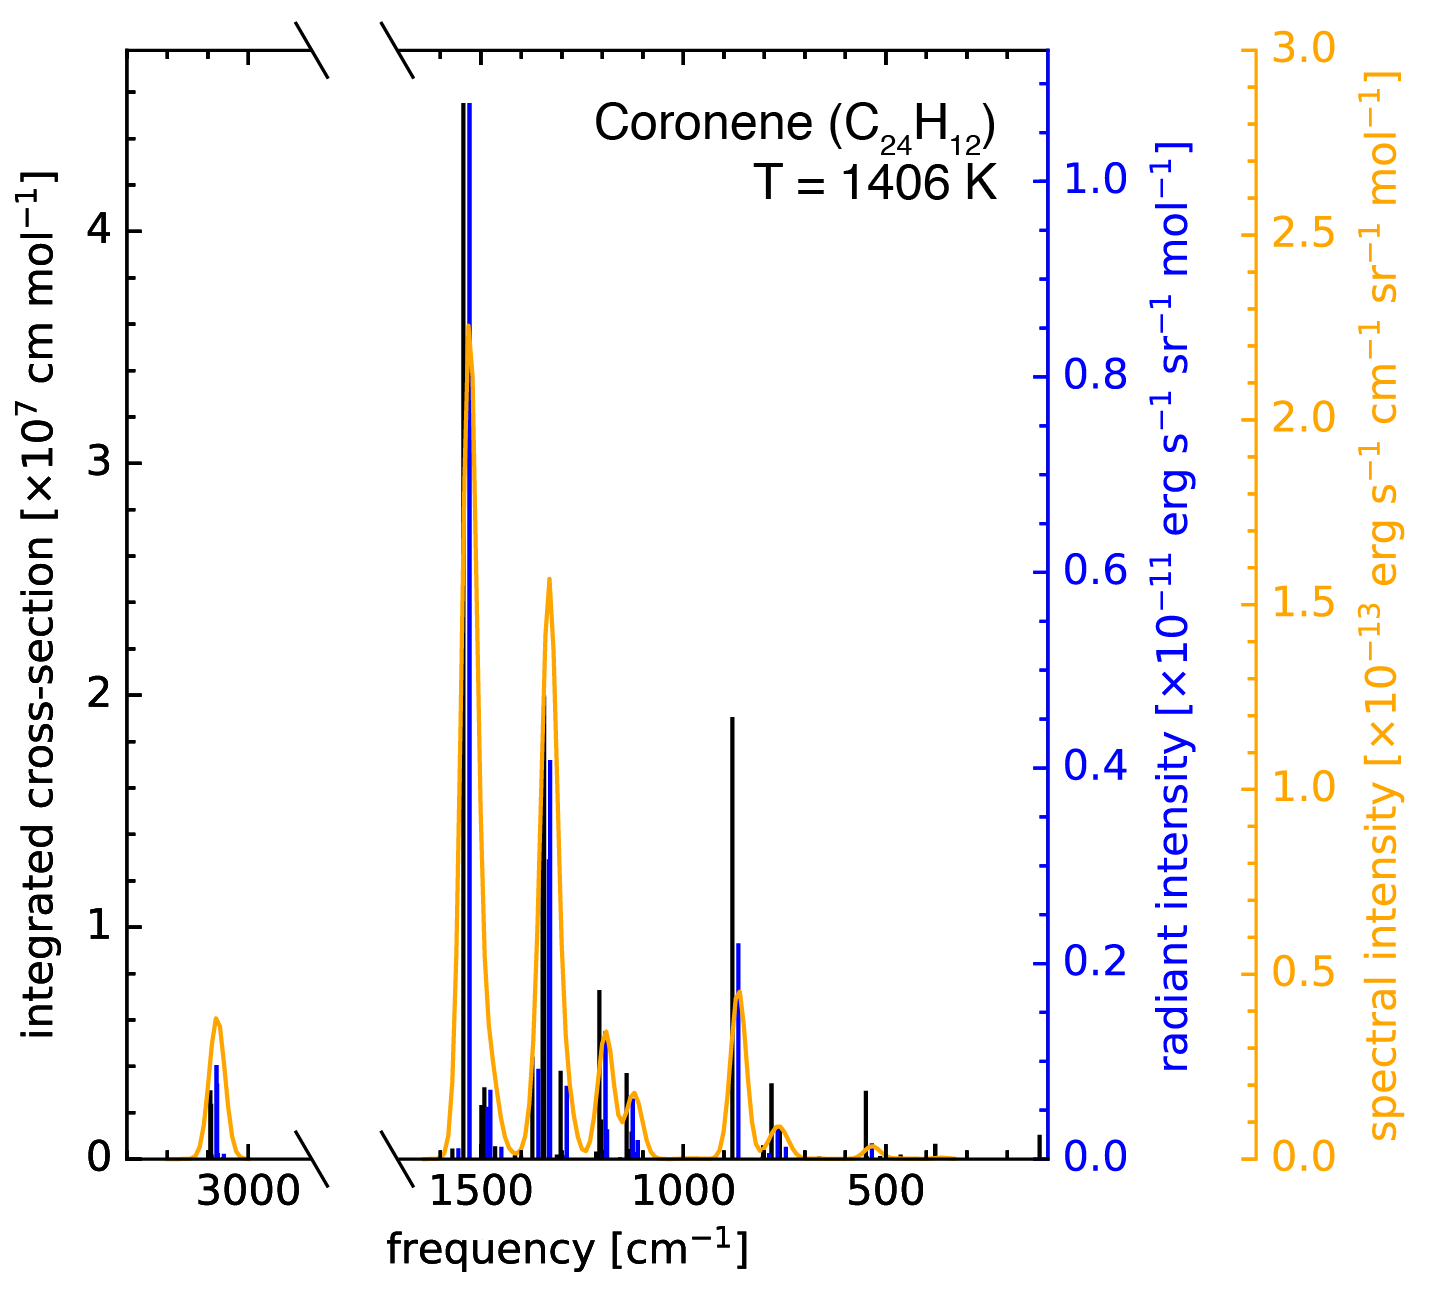
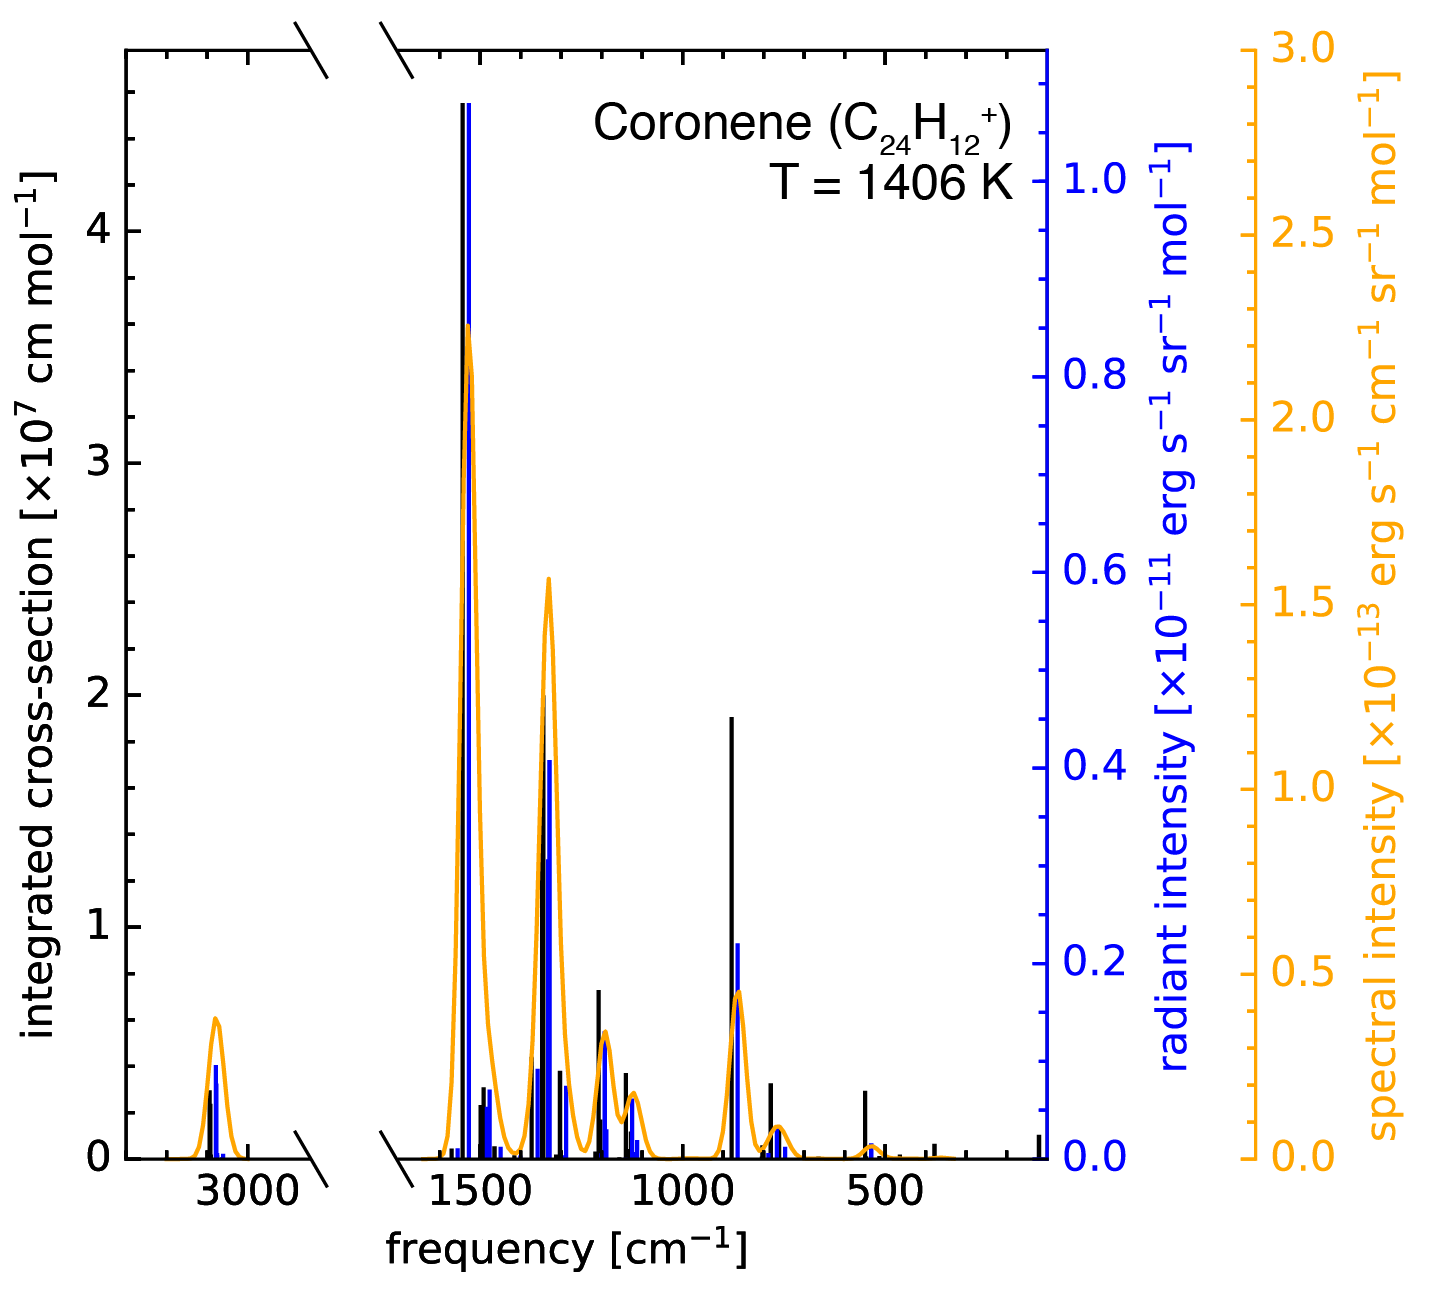
Adjusted label for model.png. Added code-block from example.py. Added output from pyPAHdb as two images. Minor textual fixes and updates.

diff --git a/papers/matthew_shannon/mshannon.rst b/papers/matthew_shannon/mshannon.rst
@@ -67,7 +67,8 @@ collection of data on PAHs, namely the NASA Ames PAH IR Spectroscopic
 Database (PAHdb). It is highly cited and is used to characterize and
 understand organic molecules in our own galaxy and external
 galaxies. Thus far, PAHdb’s full set of analytical tools has only been
-available as a suite to be used with the IDL[#]_ programming language.
+available as a suite to be used with the IDL\ [#]_ programming
+language.
 
 .. [#] IDL is a registered trademark of `Harris Geospatial
        <http://www.harrisgeospatial.com/ProductsandSolutions/GeospatialProducts/IDL.aspx>`_.
@@ -156,13 +157,13 @@ of the circumstellar disks from which new stars and planets form. For
 example, since PAH IR emission is pumped by UV light from the forming
 star, the extent of PAH emission from the disk can discriminate
 between flaring and non-flaring protoplanetary disk geometries
-:cite:`2001A&A...365..476M`; :cite:`2009A&A...502..175B`. However, the
+:cite:`2001A&A...365..476M` :cite:`2009A&A...502..175B`. However, the
 treasure trove of information of local conditions and an object's
 evolutionary history is only accessible through detailed spectroscopic
 analysis. A full spectroscopic analysis of these observations and an
 understanding of the factors that drive the spectroscopic changes is
 only now possible with the NASA Ames PAH IR Spectroscopic Database
-(PAHdb) :cite:`2018ApJS..234...32B`;
+(PAHdb) :cite:`2018ApJS..234...32B`
 :cite:`2014ApJSS..211....8B`. PAHdb is a NASA database containing
 thousands of spectra coupled to a set of innovative astronomical
 models and tools that enables astronomers to probe and quantitatively
@@ -174,7 +175,7 @@ radiation field, etc. :cite:`2016ApJ...832...51B`.
 The James Webb Space Telescope (*JWST*)
 ---------------------------------------
 
-The James Webb Space Telescope (JWST; `www.jwst.nasa.gov
+The James Webb Space Telescope (*JWST*; `www.jwst.nasa.gov
 <https://www.jwst.nasa.gov>`_) is NASA's next flagship observatory and
 is the successor to the succesful Hubble Space Telescope
 (`www.nasa.gov/hubble <https://www.nasa.gov/hubble>`_) and Spitzer
@@ -186,7 +187,7 @@ with a diameter of 6.5 m made up from 18 individual hexagonal segments
 and carriers four science instruments. These instruments will observe
 the Universe with unprecedented resolution and sensitivity from 0.6 to
 27 µm. The observatory is expected to launch in 2020. A 3D rendering
-of the spacecraft is shown in Fig. :ref:`fig:JWST`.
+of the spacecraft is shown in Figure :ref:`fig:JWST`.
 
 .. figure:: JWST.png
    :align: center
@@ -218,18 +219,18 @@ currently contain the spectra of 75 and 3139 PAH species,
 respectively, and are continuously expanded. At
 `www.astrochemistry.org/pahdb/
 <http://www.astrochemistry.org/pahdb/>`_ these libraries can be
-perused and/or downloaded. Fig. :ref:`fig:PAHdb` presents a screenshot
-of the website's landing page. Dowloads are offered formatted as ASCII
-or XML. In addition, several software tools are provided that allow
-users to interact with a downloaded database XML-file and perform the
-necessary steps to analyze astronomical data. Historically, the
-astronomical community has embraced the IDL[#]_ programming
-language. As such, the software tools have been developed
-in IDL. However, Python is seeing increasingly widespread usage among
-astronomers, in part due to its non-proprietary nature. Python has
-significantly matured over the last two decades and many astronomical
-utilities once only available through IDL and/or IRAF have been ported
-to Python (e.g., PyFITS; `www.astropy.org
+perused and/or downloaded. Figure :ref:`fig:PAHdb` presents a
+screenshot of the website's landing page. Dowloads are offered
+formatted as ASCII or XML. In addition, several software tools are
+provided that allow users to interact with a downloaded database
+XML-file and perform the necessary steps to analyze astronomical
+data. Historically, the astronomical community has embraced the IDL\
+[#]_ programming language. As such, the software tools have been
+developed in IDL. However, Python is seeing increasingly widespread
+usage among astronomers, in part due to its non-proprietary
+nature. Python has significantly matured over the last two decades and
+many astronomical utilities once only available through IDL and/or
+IRAF have been ported to Python (e.g., PyFITS; `www.astropy.org
 <http://www.astropy.org>`_). Notably, many of the astronomical
 utilities offered by the Space Telescope Science Institute, including
 the Data Analysis Toolbox for use with *JWST*, are being developed in
@@ -244,24 +245,26 @@ The software: pyPAHdb
 =====================
 
 pyPAHdb is being developed as part of the awarded James Webb Space
-Telescope (JWST) Early Release Science (ERS) program "Radiative
-Feedback from Massive Stars as Traced by Multiband Imaging and
-Spectroscopic Mosaics" (`program website <http://jwst-ism.org/>`_; ID:
-1288). The entire program is coordinated by an international "Core
-team" of 19 scientists and supported by 119 "science
-collaborators". The purpose of pyPAHdb is to derive astronomical
-parameters directly from the *JWST* observations.
-
-pyPAHdb should be considered a Lite version of the full suite of
-Python analyzes tools that is the analog of the *AmesPAHdbIDLSuite*.
-
-pyPAHdb uses a precomputed matrix of theoretically calculated PAH
-emission spectra from version 3.00 of the library of computed
-spectra. This matrix has been constructed from a collection of
-"astronomical" PAHs, which meet the following critera and include the
-fullerenes C60 and C70:
-
-* 'magnesium=0 oxygen=0 iron=0 silicium=0 chx=0 ch2=0 c>20 hydrogen>0'
+Telescope (*JWST*) Early Release Science (ERS) program titled
+"Radiative Feedback from Massive Stars as Traced by Multiband Imaging
+and Spectroscopic Mosaics" (`program website <http://jwst-ism.org/>`_;
+ID: 1288). The purpose of the ERS is to educate and inform the
+astronimical community of *JWST*'s capabilities, and provide rapid
+access to data and software tools that will enable full scientific
+exploitation in Cycle 2 and beyond. More information about the ERS
+program can be found at the `JDox
+<https://jwst-docs.stsci.edu/display/JSP/JWST+DD+ERS+Program+Goals%2C+Project+Updates%2C+and+Status+Reviews>`_. The
+program is coordinated by an international "core team" of 19
+scientists and supported by 119 "science collaborators". The purpose
+of pyPAHdb is to derive astronomical parameters directly from *JWST*
+observations, but is not limited to *JWST* observations alone. pyPAHdb
+is the Lite version of the full suite of Python software tools, dubbed
+the *AmesPAHdbPythonSuite* (`github.com/PAHdb/AmesPAHdbPythonSuite
+<https://github.com/PAHdb/AmesPAHdbPythonSuite>`_), that is being the
+analog of the *AmesPAHdbIDLSuite* (`github.com/PAHdb/AmesPAHdbIDLSuite
+<https://github.com/PAHdb/AmesPAHdbIDLSuite>`_). pyPAHdb should enable
+PAH experts and non-experts alike to analyze and interpret
+astronomical PAH emission spectra.
 
 PAH Emission Model
 ------------------
@@ -347,17 +350,46 @@ eV photon.
    spectrum is shown in orange. For display purposes the profiles have
    been given a FWHM of 45 cm\ :sup:`-1`. :label:`fig:model`
 
-Philosophy
-----------
-
-Its utility vs. the full suite, why it exists -- simplicity for
-non-experts. etc.
+pyPAHdb uses a precomputed matrix of theoretically calculated,
+highly-over-sampled, PAH emission spectra from version 3.00 of the
+library of computed spectra. This matrix has been constructed from a
+collection of "astronomical" PAHs, which include those PAHs that have
+more than 20 carbon atoms, have no hetero-atom substitutions except
+for possibly nitrogen, have no aliphatic side groups, and are not
+fully dehydrogenated. In addition, the fullerenes C\ :sub:`60` and C\
+:sub:`70` are added.
 
 Inputs, outputs, general workflow
 ---------------------------------
 
 What the user needs to know to effectively apply it to their
-dataset. Maybe code examples in here showing how it can be used?
+data set.
+
+The code-block below is taken from the example.py included in the
+pyPAHdb distribution, which also includes the NGC7023-NW-PAHs.txt.
+
+.. code-block:: python
+
+    import pypahdb
+    # load an observation from file
+    observation = pypahdb.observation('NGC7023-NW-PAHs.txt')
+    # decompose the spectrum with PAHdb
+    result = pypahdb.decomposer(observation.spectrum)
+    # write results to file
+    pypahdb.writer(result, header=observation.header)
+
+Figure :ref:`fig:fit` presents the output.
+
+.. figure:: fit.png
+   :align: center
+
+   Output from running the code example. :label:`fig:fit`
+
+.. figure:: map.png
+   :align: center
+
+   PAH ionization map constructed from analyzing the *Spitzer*
+   spectral map of the reflection nebula NGC 7023. :label:`fig:map`.
 
 Parallelization, benchmarks
 ---------------------------
